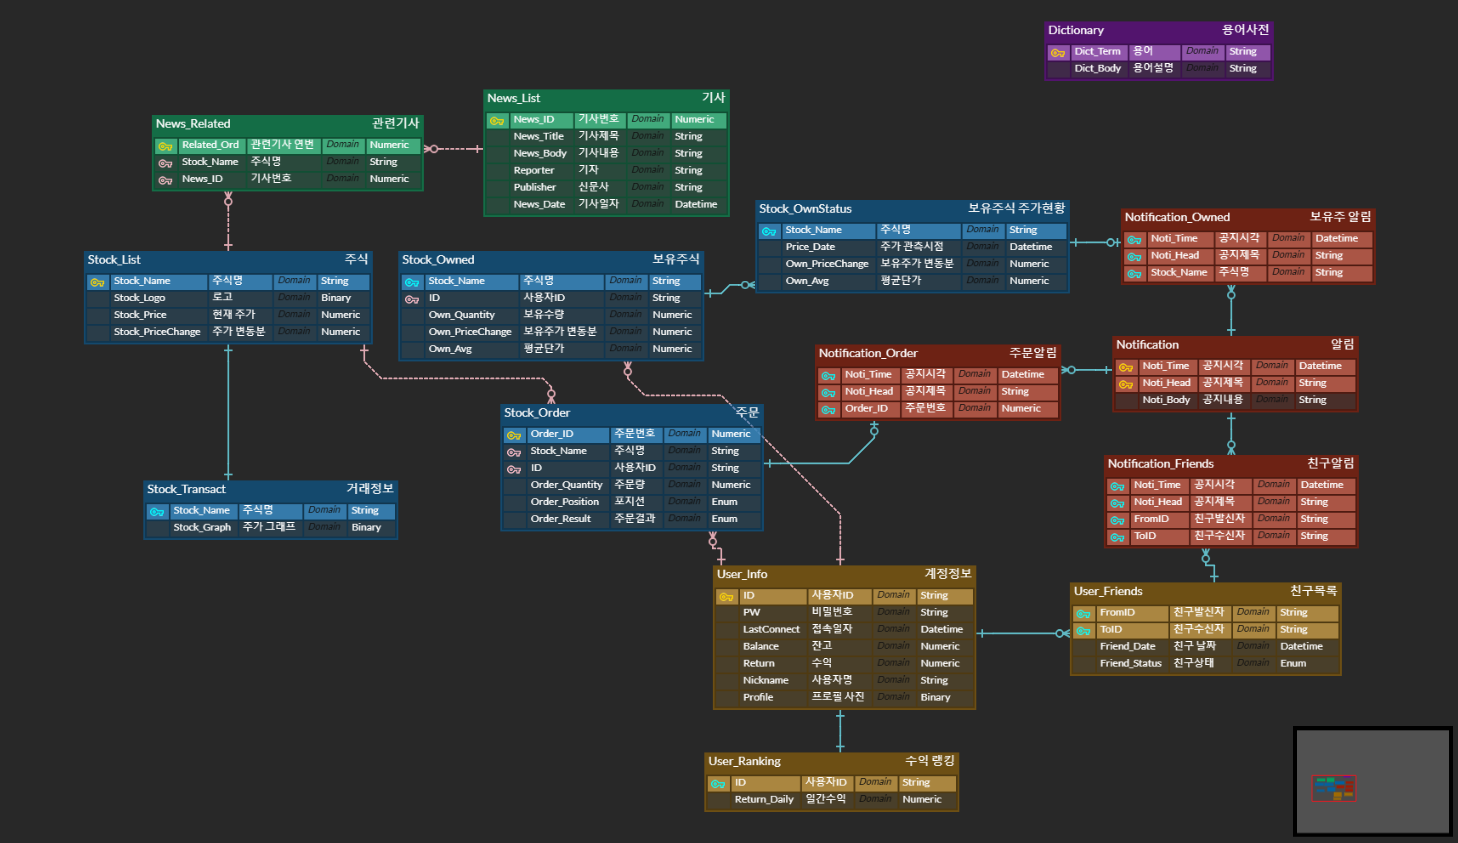
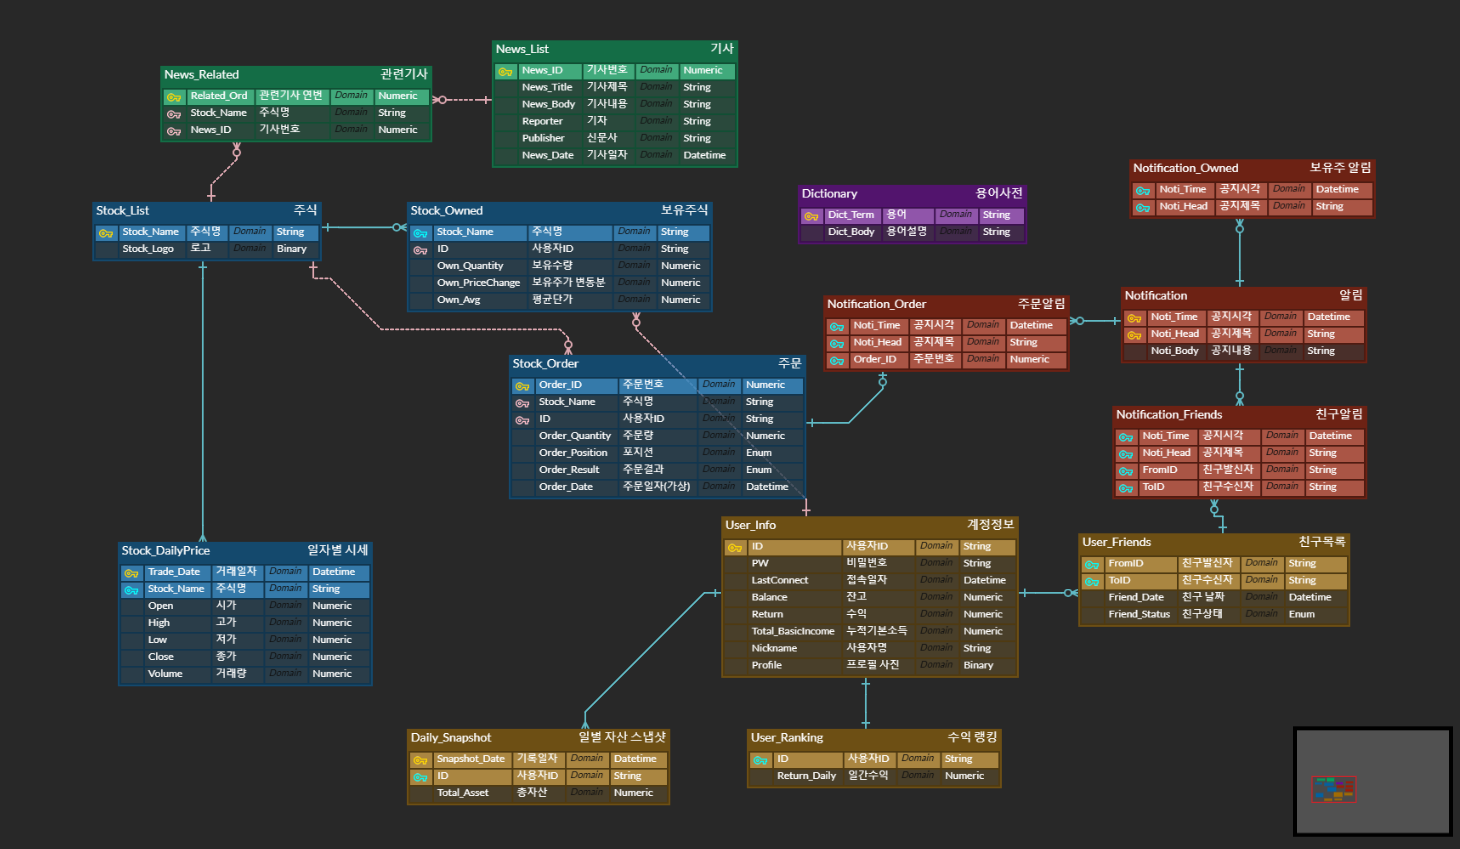
new erd

diff --git a/custom_api/app.py b/custom_api/app.py
@@ -1,0 +1,11 @@
+import sqlalchemy
+
+'''ⓒ Copyright 2026 the SQLAlchemy authors and contributors.
+
+Permission is hereby granted, free of charge, to any person obtaining a copy of this software and associated documentation files (the “Software”), to deal in the Software without restriction, including without limitation the rights to use, copy, modify, merge, publish, distribute, sublicense, and/or sell copies of the Software, and to permit persons to whom the Software is furnished to do so, subject to the following conditions:
+
+The above copyright notice and this permission notice shall be included in all copies or substantial portions of the Software.
+
+THE SOFTWARE IS PROVIDED “AS IS”, WITHOUT WARRANTY OF ANY KIND, EXPRESS OR IMPLIED, INCLUDING BUT NOT LIMITED TO THE WARRANTIES OF MERCHANTABILITY, FITNESS FOR A PARTICULAR PURPOSE AND NONINFRINGEMENT. IN NO EVENT SHALL THE AUTHORS OR COPYRIGHT HOLDERS BE LIABLE FOR ANY CLAIM, DAMAGES OR OTHER LIABILITY, WHETHER IN AN ACTION OF CONTRACT, TORT OR OTHERWISE, ARISING FROM, OUT OF OR IN CONNECTION WITH THE SOFTWARE OR THE USE OR OTHER DEALINGS IN THE SOFTWARE.'''
+
+